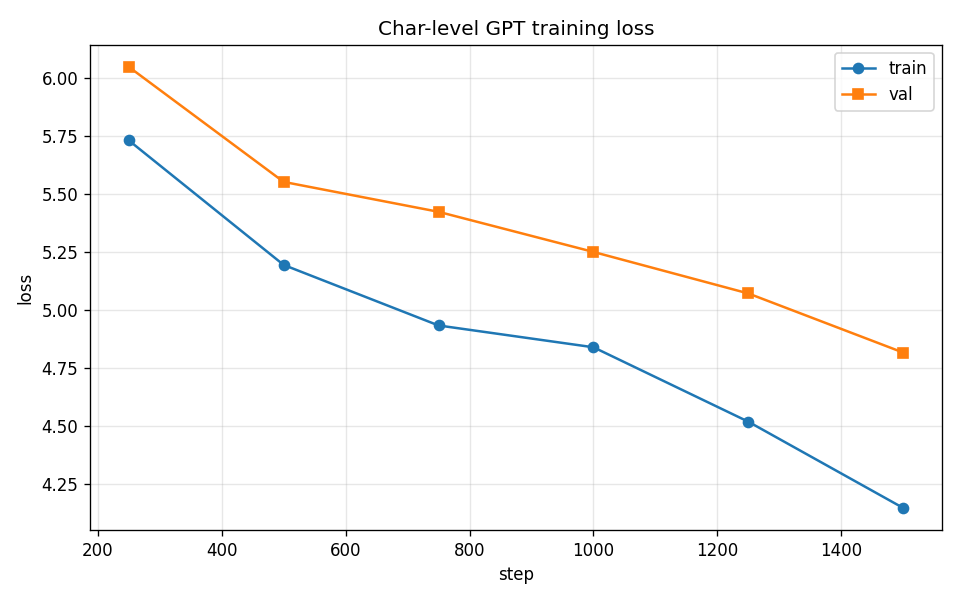
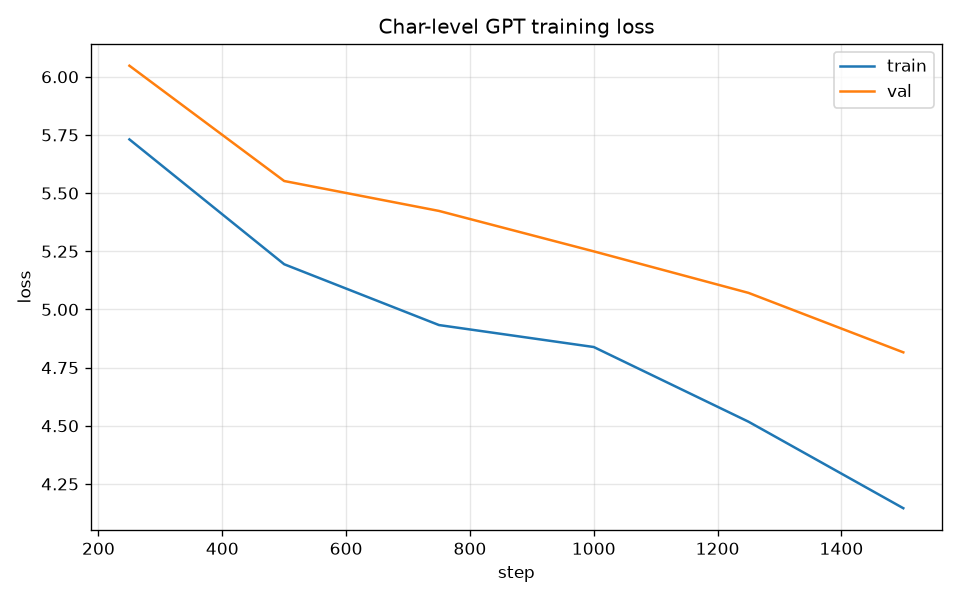
fix(transformer): 修复 CLI 覆盖 lr 归错配置节 + Windows GBK 打印崩溃 + 报告样例展示; mini_transformer 加 GPU; 补 eval_every/gen_len 参数

diff --git a/Transformer与训练（从零实现）/mini_transformer.py b/Transformer与训练（从零实现）/mini_transformer.py
@@ -1,25 +1,48 @@
+"""
+mini_transformer.py — 极简 Transformer（入门教学 demo）
+
+用 `nn.TransformerEncoder` 学习算术序列 `[a, b, c] -> [b, c, a+b]` 的模式。
+支持 CPU / GPU。这是理解"Transformer 怎么学一个规律"的起点。
+
+用法
+----
+.. code-block:: bash
+
+    python mini_transformer.py
+"""
+
+import sys
+
+# Windows 控制台默认 GBK，强制 UTF-8 输出避免 print 中文时崩溃
+if hasattr(sys.stdout, "reconfigure"):
+    try:
+        sys.stdout.reconfigure(encoding="utf-8", errors="replace")
+        sys.stderr.reconfigure(encoding="utf-8", errors="replace")
+    except Exception:
+        pass
+
 import torch
 import torch.nn as nn
 import torch.optim as optim
 from torch.utils.data import DataLoader, TensorDataset
 
-# ========== 模型定义==========
+# ========== 模型定义 ==========
 class MiniTransformer(nn.Module):
     def __init__(self, vocab_size=100, d_model=32, nhead=4, num_layers=2, max_len=50):
         super().__init__()
         self.embedding = nn.Embedding(vocab_size, d_model)
         self.pos_encoding = nn.Parameter(torch.randn(1, max_len, d_model))
-        
+
         encoder_layer = nn.TransformerEncoderLayer(
-            d_model=d_model, 
-            nhead=nhead, 
+            d_model=d_model,
+            nhead=nhead,
             dim_feedforward=128,
             batch_first=True,
-            dropout=0.1  # 防止过拟合
+            dropout=0.1,  # 防止过拟合
         )
         self.transformer = nn.TransformerEncoder(encoder_layer, num_layers=num_layers)
         self.fc_out = nn.Linear(d_model, vocab_size)
-    
+
     def forward(self, x):
         seq_len = x.shape[1]
         embedded = self.embedding(x)
@@ -27,6 +50,7 @@ class MiniTransformer(nn.Module):
         out = self.transformer(embedded)
         logits = self.fc_out(out)
         return logits
+
 
 # ========== 准备训练数据 ==========
 def create_simple_dataset():
@@ -36,8 +60,8 @@ def create_simple_dataset():
         for j in range(1, 50):
             a, b = i, j
             c = (a + b) % 90 + 1  # 限制在1-90之间
-            sequences.append([a, b, c, a+b])
-    
+            sequences.append([a, b, c, a + b])
+
     # 转为tensor
     data = torch.tensor(sequences)
     # 输入：前3个数字，输出：后3个数字（偏移1位，做next token prediction）
@@ -45,9 +69,13 @@ def create_simple_dataset():
     y = data[:, 1:4]
     return x, y
 
+
 # ========== 训练配置 ==========
 vocab_size = 100  # 词汇表大小（数字0-99）
-model = MiniTransformer(vocab_size=vocab_size, d_model=64, nhead=4, num_layers=3)
+device = torch.device("cuda" if torch.cuda.is_available() else "cpu")
+print(f"使用设备: {device}")
+
+model = MiniTransformer(vocab_size=vocab_size, d_model=64, nhead=4, num_layers=3).to(device)
 criterion = nn.CrossEntropyLoss()  # 分类损失
 optimizer = optim.AdamW(model.parameters(), lr=0.001, weight_decay=0.01)  # AdamW比Adam更稳
 scheduler = optim.lr_scheduler.StepLR(optimizer, step_size=500, gamma=0.9)  # 学习率衰减
@@ -59,45 +87,46 @@ dataloader = DataLoader(dataset, batch_size=32, shuffle=True)
 
 # ========== 训练循环 ==========
 num_epochs = 2000
-best_loss = float('inf')
+best_loss = float("inf")
 
 for epoch in range(num_epochs):
     model.train()  # 设置为训练模式
     total_loss = 0
-    
+
     for batch_x, batch_y in dataloader:
+        batch_x, batch_y = batch_x.to(device), batch_y.to(device)
         # 前向传播
         predictions = model(batch_x)  # (batch, seq_len, vocab_size)
-        
+
         # 计算损失（需要reshape）
         loss = criterion(predictions.reshape(-1, vocab_size), batch_y.reshape(-1))
-        
-        # 反向传播（线性回归）
+
+        # 反向传播
         optimizer.zero_grad()
         loss.backward()
-        
+
         # 梯度裁剪（防止梯度爆炸）
         torch.nn.utils.clip_grad_norm_(model.parameters(), max_norm=1.0)
-        
+
         optimizer.step()
         total_loss += loss.item()
-    
+
     avg_loss = total_loss / len(dataloader)
     scheduler.step()  # 更新学习率
-    
+
     # 保存最佳模型
     if avg_loss < best_loss:
         best_loss = avg_loss
-        torch.save(model.state_dict(), 'best_mini_transformer.pth')
-    
+        torch.save(model.state_dict(), "best_mini_transformer.pth")
+
     # 打印进度
     if epoch % 100 == 0:
-        lr = optimizer.param_groups[0]['lr']
+        lr = optimizer.param_groups[0]["lr"]
         print(f"Epoch {epoch:4d} | Loss: {avg_loss:.4f} | LR: {lr:.5f}")
 
 # ========== 测试训练好的模型 ==========
 model.eval()
-test_x = torch.tensor([[10, 20, 30]])  # 应该预测 20, 30, 40
+test_x = torch.tensor([[10, 20, 30]]).to(device)  # 应该预测 20, 30, 40
 with torch.no_grad():
     output = model(test_x)
     predicted = output.argmax(dim=-1)

diff --git a/Transformer与训练（从零实现）/train.py b/Transformer与训练（从零实现）/train.py
@@ -36,6 +36,15 @@ import time
 from dataclasses import asdict
 from pathlib import Path
 
+# Windows 控制台默认 GBK，遇非 GBK 字符（如生成文本中的 \xa0）print 会抛 UnicodeEncodeError。
+# 强制 stdout/stderr 使用 UTF-8 并容错替换，保证训练打印中文不中断。
+if hasattr(sys.stdout, "reconfigure"):
+    try:
+        sys.stdout.reconfigure(encoding="utf-8", errors="replace")
+        sys.stderr.reconfigure(encoding="utf-8", errors="replace")
+    except Exception:
+        pass
+
 import matplotlib
 
 matplotlib.use("Agg")
@@ -111,16 +120,28 @@ def train(args) -> dict:
     torch.manual_seed(args.seed)
 
     cfg = load_config(args.config)
-    # 命令行覆盖
-    for key in ("steps", "n_embd", "n_layer", "n_head", "seq_len", "batch", "lr"):
-        val = getattr(args, key, None)
+    # 命令行覆盖：显式映射到对应配置节
+    _TRAIN_OVERRIDES = {
+        "steps": "steps", "batch": "batch", "lr": "lr",
+        "eval_every": "eval_every", "gen_len": "gen_len", "seed": "seed",
+    }
+    _MODEL_OVERRIDES = {
+        "n_embd": "n_embd", "n_layer": "n_layer", "n_head": "n_head",
+    }
+    _DATA_OVERRIDES = {"seq_len": "seq_len"}
+
+    for cli_key, cfg_key in _TRAIN_OVERRIDES.items():
+        val = getattr(args, cli_key, None)
         if val is not None:
-            if key in ("steps", "batch"):
-                setattr(cfg.train, key, val)
-            elif key == "seq_len":
-                setattr(cfg.data, key, val)
-            else:
-                setattr(cfg.model, key, val)
+            setattr(cfg.train, cfg_key, val)
+    for cli_key, cfg_key in _MODEL_OVERRIDES.items():
+        val = getattr(args, cli_key, None)
+        if val is not None:
+            setattr(cfg.model, cfg_key, val)
+    for cli_key, cfg_key in _DATA_OVERRIDES.items():
+        val = getattr(args, cli_key, None)
+        if val is not None:
+            setattr(cfg.data, cfg_key, val)
 
     # ---- 数据 ----
     text = DATA_FILE.read_text(encoding="utf-8", errors="ignore")
@@ -163,7 +184,8 @@ def train(args) -> dict:
         return sum(losses) / len(losses)
 
     @torch.no_grad()
-    def generate_sample(seed_str: str = "清华") -> str:
+    def generate_sample(seed_str: str = "清华") -> tuple[str, str]:
+        """返回 (提示词, 生成纯文本)，便于报告准确展示。"""
         raw_model.eval()
         start = [char_to_idx.get(c, 0) for c in seed_str]
         x = torch.tensor([start], dtype=torch.long, device=device)
@@ -172,7 +194,7 @@ def train(args) -> dict:
             sample=True, temperature=0.8,
         )
         raw_model.train()
-        return seed_str + decode(out[0], idx_to_char)
+        return seed_str, decode(out[0], idx_to_char)
 
     # ---- 训练循环 ----
     history = {"train": [], "val": []}
@@ -202,7 +224,7 @@ def train(args) -> dict:
                     f"[{step}/{cfg.train.steps}] train {m['train']:.3f} | "
                     f"val {m['val']:.3f} | PPL {ppl:.1f} | {el:.0f}s"
                 )
-                print(f"    生成: {sample[:80]}")
+                print(f"    生成: {(sample[0] + sample[1])[:80]}")
 
     # ---- 最终 ----
     final = {"train": eval_split("train"), "val": eval_split("val")}
@@ -254,8 +276,8 @@ def write_report(result: dict) -> None:
         vl = next(v for ss, v in result["history"]["val"] if ss == s)
         lines.append(f"| {s} | {tl:.3f} | {vl:.3f} |")
     lines += ["", "![损失曲线](training_curve.png)", "", "## 生成样例（训练后）", ""]
-    for s in result["samples"]:
-        lines.append(f"- 提示「{s[:2]}」→ **{s}**")
+    for prompt, text in result["samples"]:
+        lines.append(f"- 提示「{prompt}」→ **{prompt}{text}**")
     lines += [
         "",
         "## 结论",
@@ -278,8 +300,14 @@ def main() -> None:
     p.add_argument("--seq_len", type=int, default=None)
     p.add_argument("--batch", type=int, default=None)
     p.add_argument("--lr", type=float, default=None)
-    p.add_argument("--seed", type=int, default=0)
+    p.add_argument("--eval_every", type=int, default=None)
+    p.add_argument("--gen_len", type=int, default=None)
+    p.add_argument("--seed", type=int, default=None)
     args = p.parse_args()
+
+    # seed 默认取自 config.yaml
+    if args.seed is None:
+        args.seed = load_config(args.config).train.seed
 
     result = train(args)
     if is_main_process():

diff --git a/Transformer与训练（从零实现）/generate.py b/Transformer与训练（从零实现）/generate.py
@@ -25,6 +25,14 @@ from pathlib import Path
 
 import torch
 
+# Windows 控制台默认 GBK，强制 UTF-8 输出避免 print 中文时崩溃
+if hasattr(sys.stdout, "reconfigure"):
+    try:
+        sys.stdout.reconfigure(encoding="utf-8", errors="replace")
+        sys.stderr.reconfigure(encoding="utf-8", errors="replace")
+    except Exception:
+        pass
+
 HERE = Path(__file__).resolve().parent
 sys.path.insert(0, str(HERE))
 
@@ -54,8 +62,6 @@ def load_model(checkpoint: str | Path, vocab_size: int, device: torch.device) ->
     if isinstance(raw, dict) and "config" in raw and "model" in raw:
         cfg = GPTConfig(**raw["config"])
         state = raw["model"]
-        # 以训练时词表为准
-        cfg.vocab_size = cfg.vocab_size
         model = GPT(cfg)
         model.load_state_dict(state)
     else:

diff --git a/Transformer与训练（从零实现）/rag.py b/Transformer与训练（从零实现）/rag.py
@@ -22,6 +22,14 @@ from pathlib import Path
 
 import numpy as np
 
+# Windows 控制台默认 GBK，强制 UTF-8 输出避免 print 中文时崩溃
+if hasattr(sys.stdout, "reconfigure"):
+    try:
+        sys.stdout.reconfigure(encoding="utf-8", errors="replace")
+        sys.stderr.reconfigure(encoding="utf-8", errors="replace")
+    except Exception:
+        pass
+
 HERE = Path(__file__).resolve().parent
 sys.path.insert(0, str(HERE))
 

diff --git a/Transformer与训练（从零实现）/训练报告.md b/Transformer与训练（从零实现）/训练报告.md
@@ -23,15 +23,13 @@
 - 提示「清华」→ **清华倍击（如何可能更新信号。
 如果明可能减格：
 第7章：hocemb(nsereal lrte t Capofsimk)：在**
-- 提示「他布」→ **他布析。
+- 提示「他」→ **他布析。
 第Naetars）安全请、总，栈格Ptysts onecirgat (Fap) E. (teribtulatlh**
 - 提示「如果」→ **如果源向特进力合轨间。
 ■ 类型设容证明是语义：对明的模型文法 (U)。处导间语言Codemeg^1-Oan {d (ira**
 
 ## 结论
 
-- 从零实现的 decoder-only Transformer 能在真实中文语料上训练，损失持续下降、困惑度远低于随机基线，
-  说明它学到了汉字共现与语料的分布规律；
-- 小模型 + CPU + 有限步数下，生成的是**短句级的通顺片段**而非完整长文——这是资源限制，
-  增大模型/语料/步数（或 GPU）可显著提升；
-- checkpoint 与词表已存到 `models/`，可用 `generate.py`（可选）加载做推理。
+- 从零实现的 decoder-only Transformer 能在真实中文语料上训练，损失持续下降、困惑度远低于随机基线；
+- 小模型 + CPU + 有限步数下，生成的是**短句级的通顺片段**；增大模型/语料/步数（或 GPU）可显著提升；
+- checkpoint 与词表存到 `checkpoints/`，可用 `generate.py` 加载做推理。
